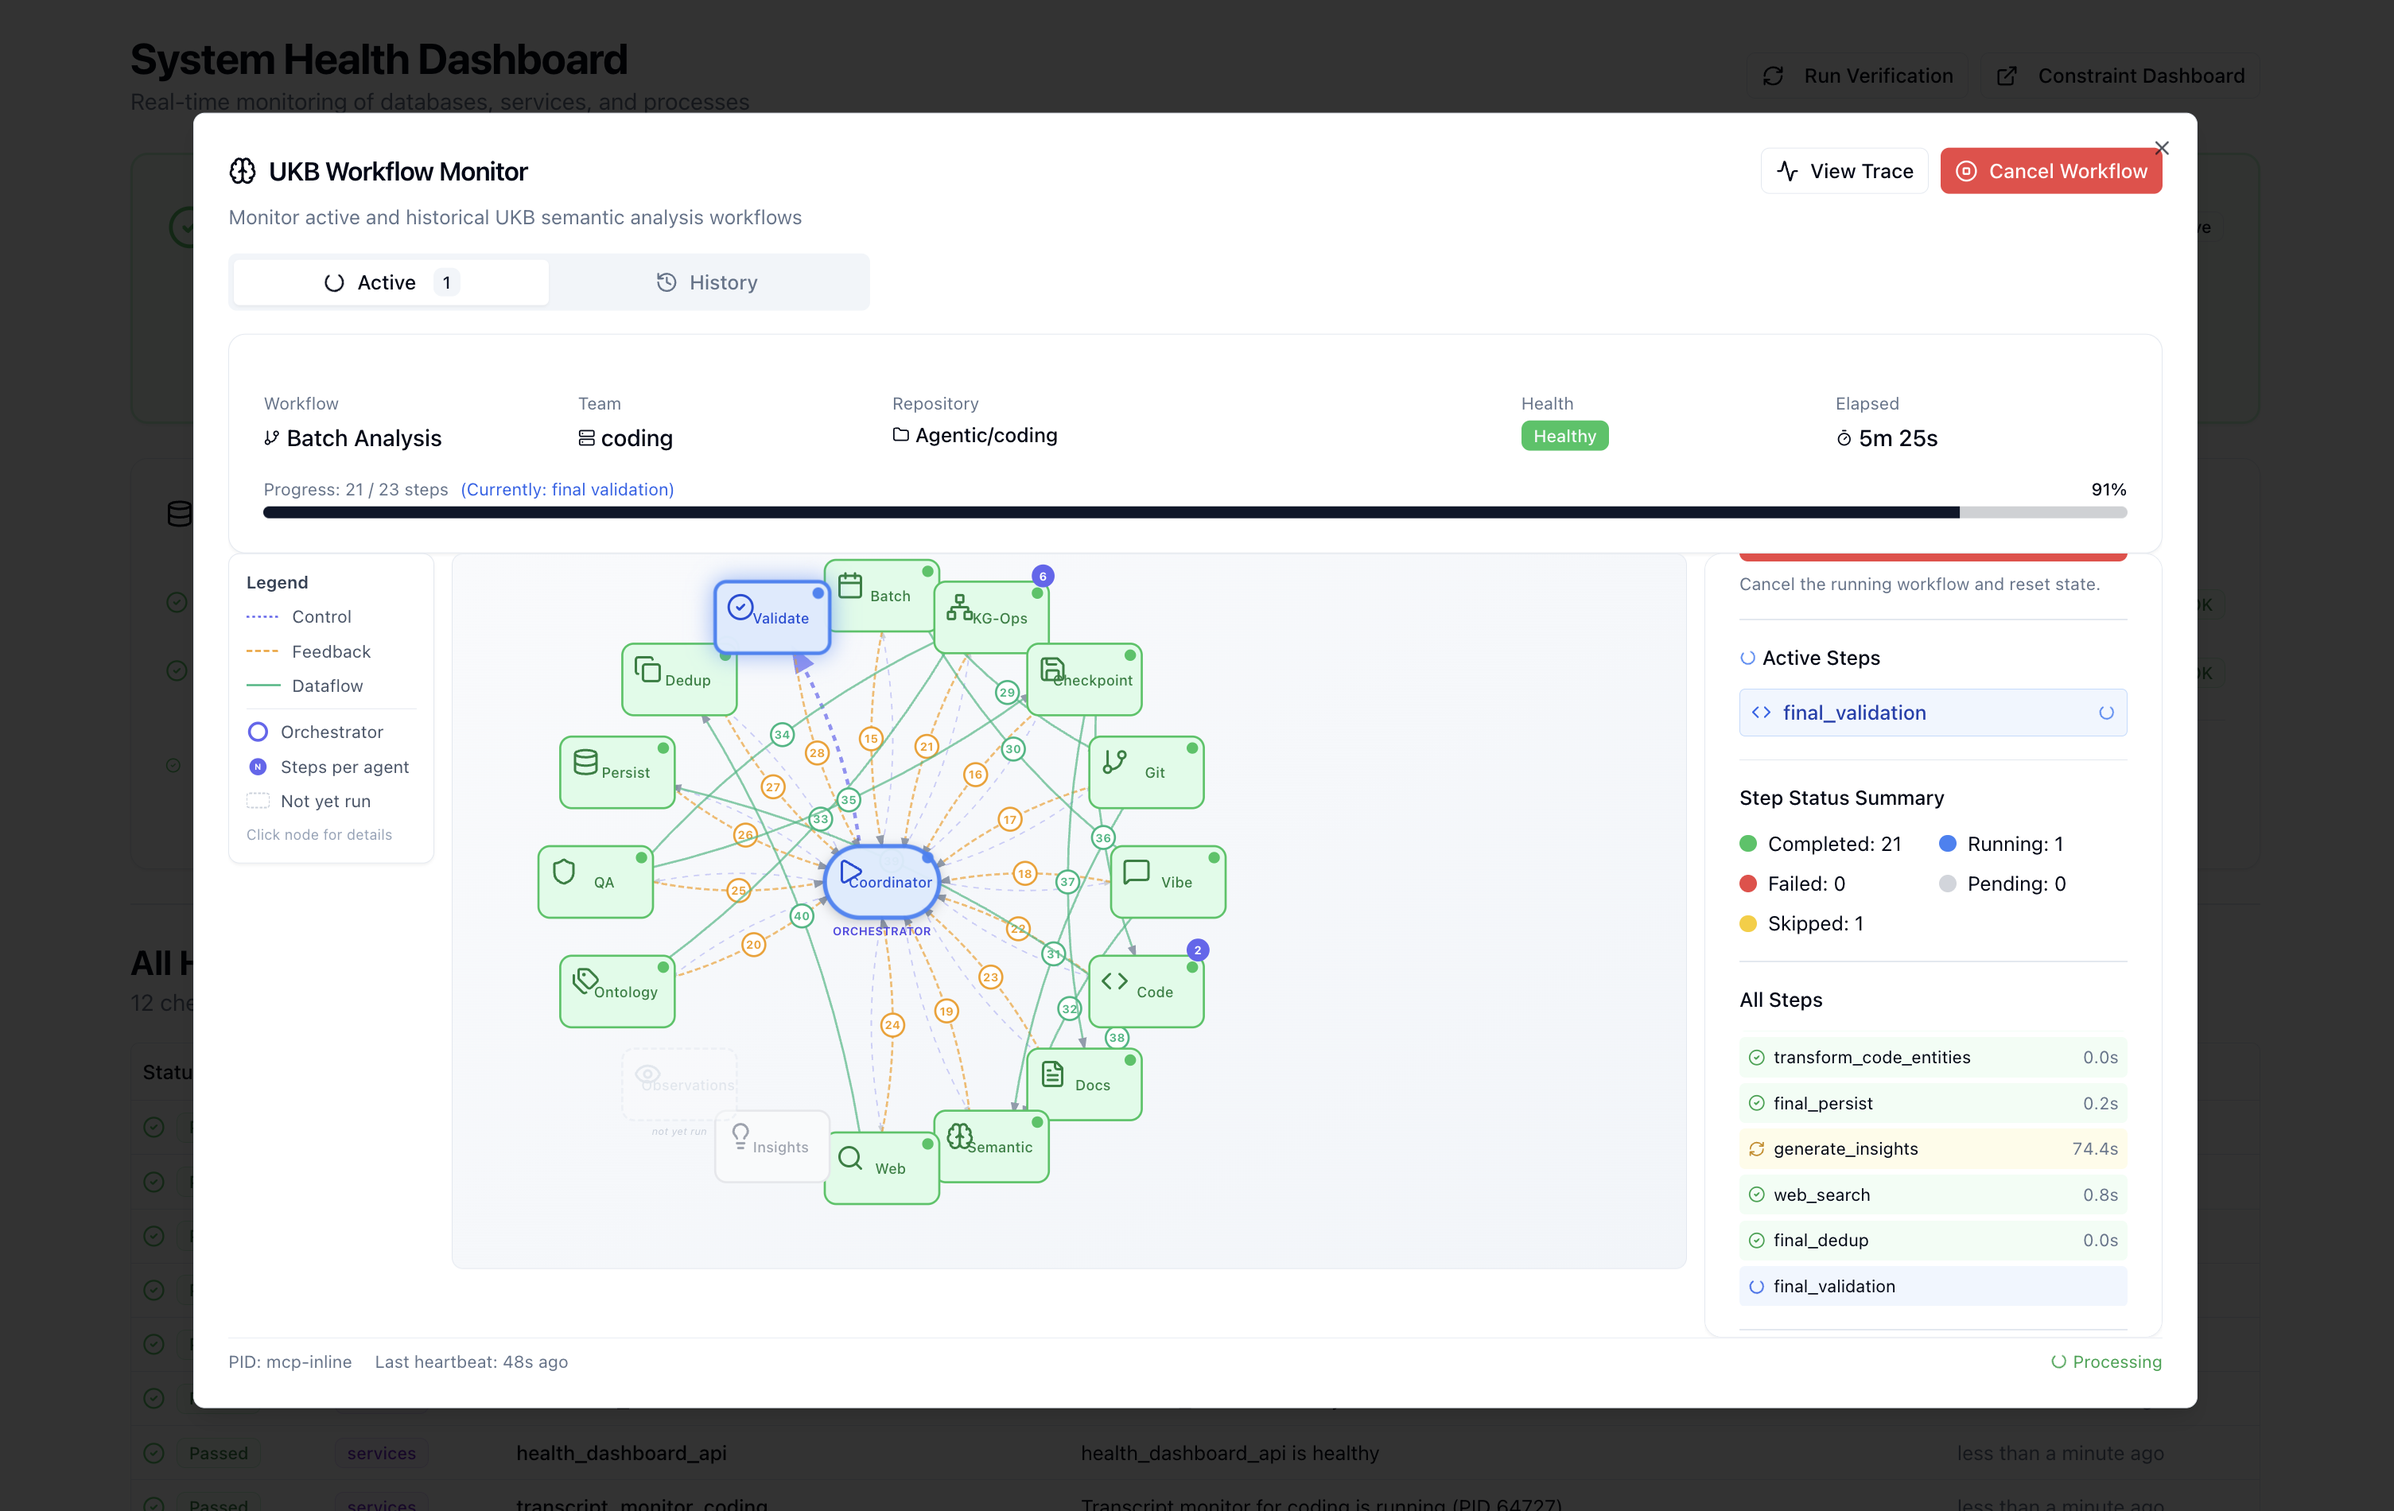
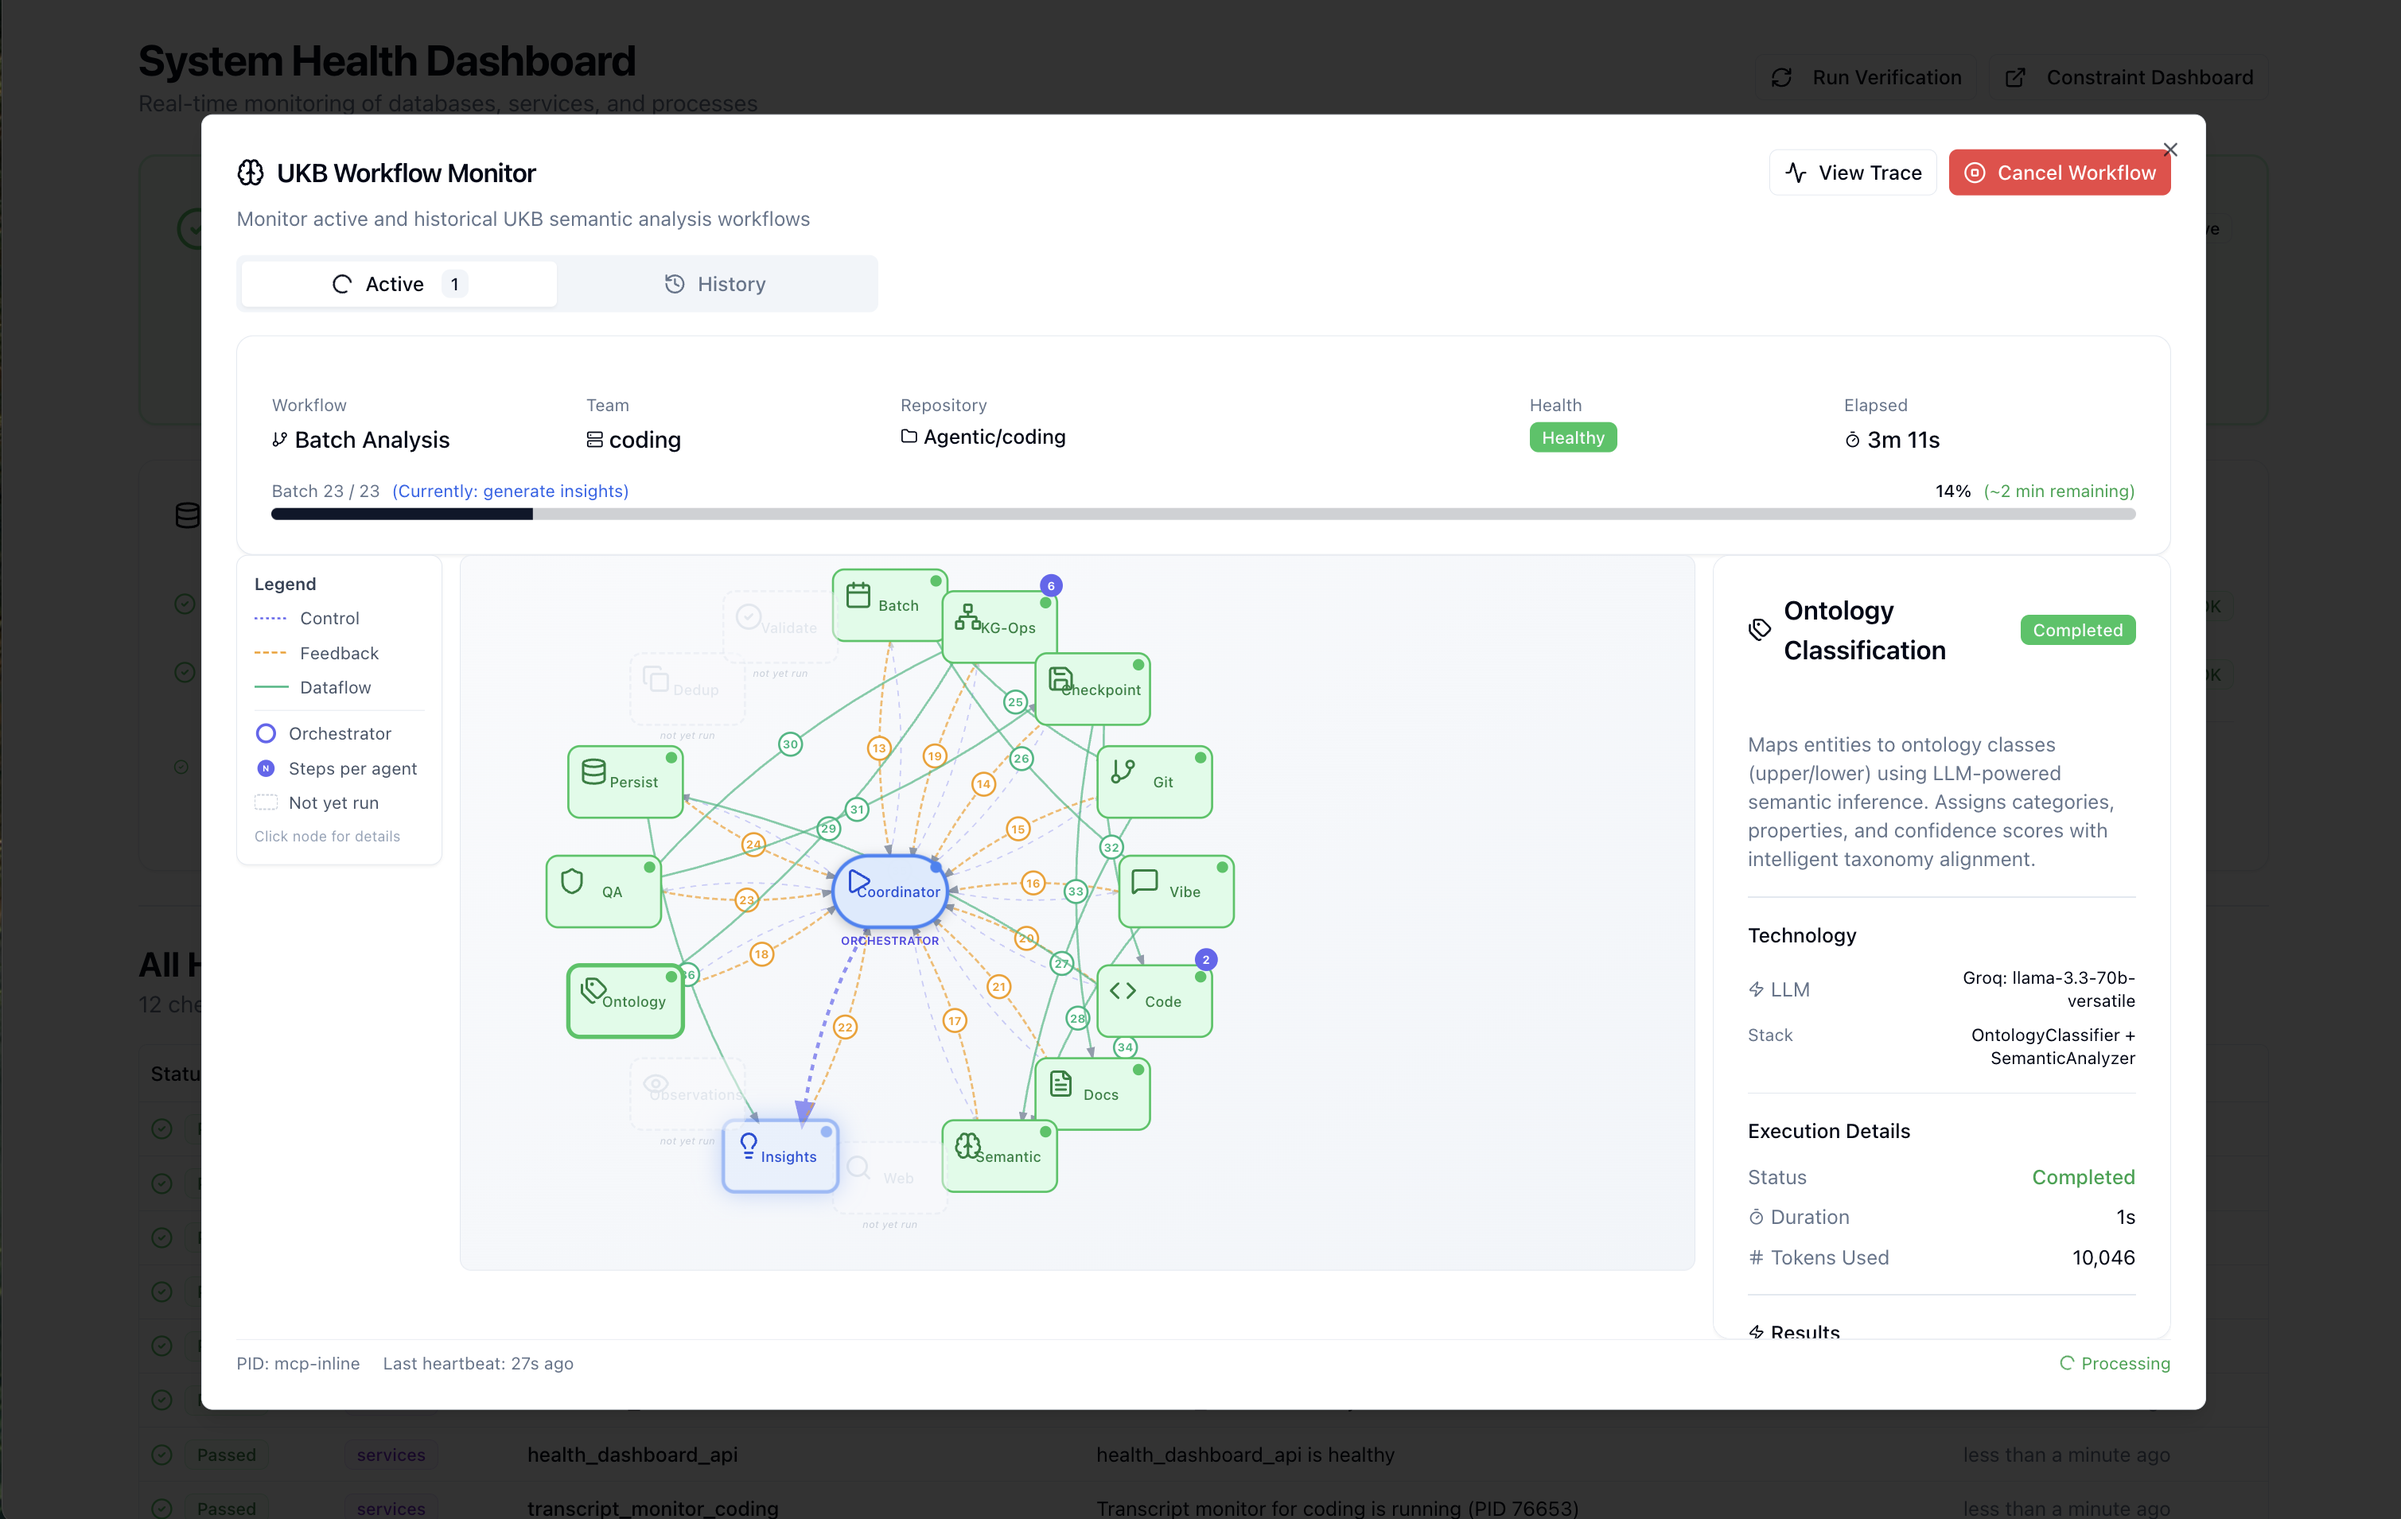
fix: progress bar and statistical estimates (median)

diff --git a/integrations/system-health-dashboard/src/components/ukb-workflow-modal.tsx b/integrations/system-health-dashboard/src/components/ukb-workflow-modal.tsx
@@ -74,6 +74,15 @@ interface UKBWorkflowModalProps {
   apiBaseUrl?: string
 }
 
+// Helper to calculate median from an array of numbers (more robust than mean for outliers)
+function calculateMedian(values: number[]): number {
+  if (!values || values.length === 0) return 0
+  const sorted = [...values].filter(v => v > 0).sort((a, b) => a - b)
+  if (sorted.length === 0) return 0
+  const mid = Math.floor(sorted.length / 2)
+  return sorted.length % 2 !== 0 ? sorted[mid] : (sorted[mid - 1] + sorted[mid]) / 2
+}
+
 export default function UKBWorkflowModal({ open, onOpenChange, processes, apiBaseUrl = 'http://localhost:3033' }: UKBWorkflowModalProps) {
   const dispatch = useDispatch()
 
@@ -381,24 +390,53 @@ export default function UKBWorkflowModal({ open, onOpenChange, processes, apiBas
     let usingTimeBased = false
 
     if (activeCurrentProcess && activeCurrentProcess.totalSteps > 0) {
-      // Calculate elapsed time from completed steps
-      const elapsedMs = activeCurrentProcess.steps?.reduce((acc: number, step: any) => {
-        if (step.status === 'completed') return acc + (step.duration || 0)
-        return acc
-      }, 0) || 0
+      // Use actual wall clock elapsed time (not sum of current batch step durations!)
+      const elapsedMs = (activeCurrentProcess.elapsedSeconds || 0) * 1000
 
       const currentBatch = activeCurrentProcess.batchProgress?.currentBatch || 0
       const totalBatches = activeCurrentProcess.batchProgress?.totalBatches || 0
 
       // TIME-BASED PROGRESS: Use historical statistics when available (3+ samples)
+      // Use MEDIAN instead of mean for robustness against outliers
       if (hasReliableStats && workflowStats) {
-        const avgBatchMs = workflowStats.avgBatchDurationMs || 0
-        const avgFinalizationMs = workflowStats.avgFinalizationDurationMs || 0
+        // Compute median batch duration from individual step medians
+        let medianBatchMs = 0
+        let medianFinalizationMs = 0
 
-        if (avgBatchMs > 0 && totalBatches > 0) {
+        if (workflowStats.steps) {
+          // Sum median durations of batch steps (steps that run per batch)
+          const batchStepNames = Object.keys(workflowStats.steps).filter(
+            name => workflowStats.steps[name]?.isBatchStep
+          )
+          medianBatchMs = batchStepNames.reduce((sum, name) => {
+            const step = workflowStats.steps[name]
+            const median = step?.recentDurations?.length
+              ? calculateMedian(step.recentDurations)
+              : step?.avgDurationMs || 0
+            return sum + median
+          }, 0)
+
+          // Sum median durations of finalization steps (non-batch steps)
+          const finStepNames = Object.keys(workflowStats.steps).filter(
+            name => !workflowStats.steps[name]?.isBatchStep
+          )
+          medianFinalizationMs = finStepNames.reduce((sum, name) => {
+            const step = workflowStats.steps[name]
+            const median = step?.recentDurations?.length
+              ? calculateMedian(step.recentDurations)
+              : step?.avgDurationMs || 0
+            return sum + median
+          }, 0)
+        }
+
+        // Fallback to stored averages if computed medians are 0
+        if (medianBatchMs === 0) medianBatchMs = workflowStats.avgBatchDurationMs || 0
+        if (medianFinalizationMs === 0) medianFinalizationMs = workflowStats.avgFinalizationDurationMs || 0
+
+        if (medianBatchMs > 0 && totalBatches > 0) {
           // Per-batch learning: estimate total time based on actual batch count
-          const estimatedBatchPhaseMs = avgBatchMs * totalBatches
-          const estimatedTotalMs = estimatedBatchPhaseMs + avgFinalizationMs
+          const estimatedBatchPhaseMs = medianBatchMs * totalBatches
+          const estimatedTotalMs = estimatedBatchPhaseMs + medianFinalizationMs
 
           // Calculate progress based on elapsed time vs estimated total
           if (currentBatch > 0 && currentBatch <= totalBatches) {
